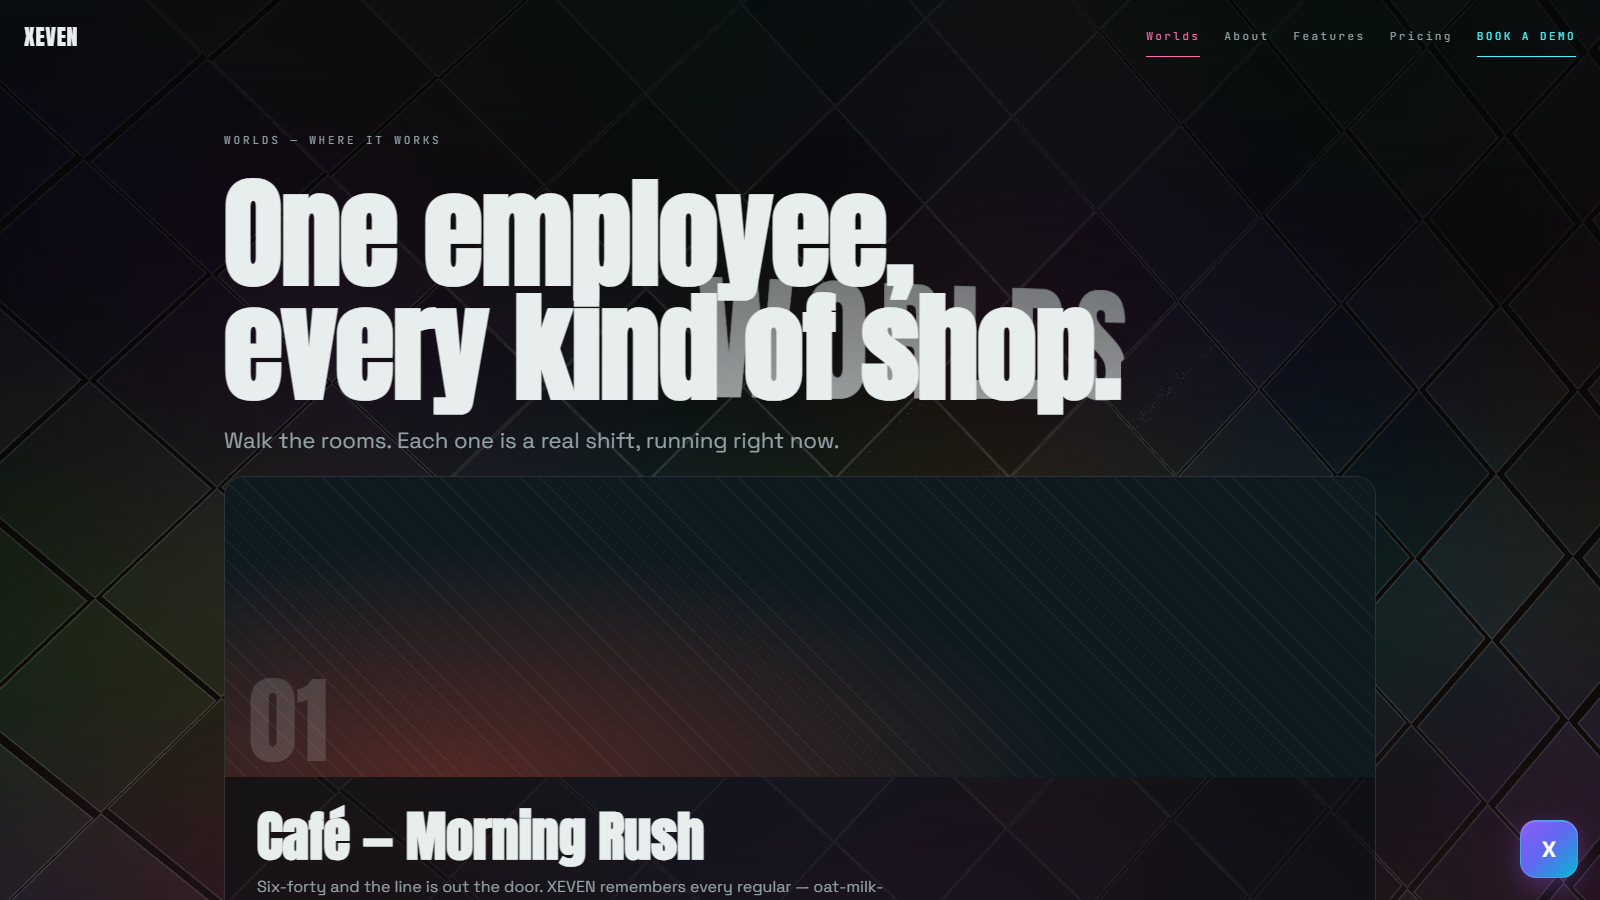
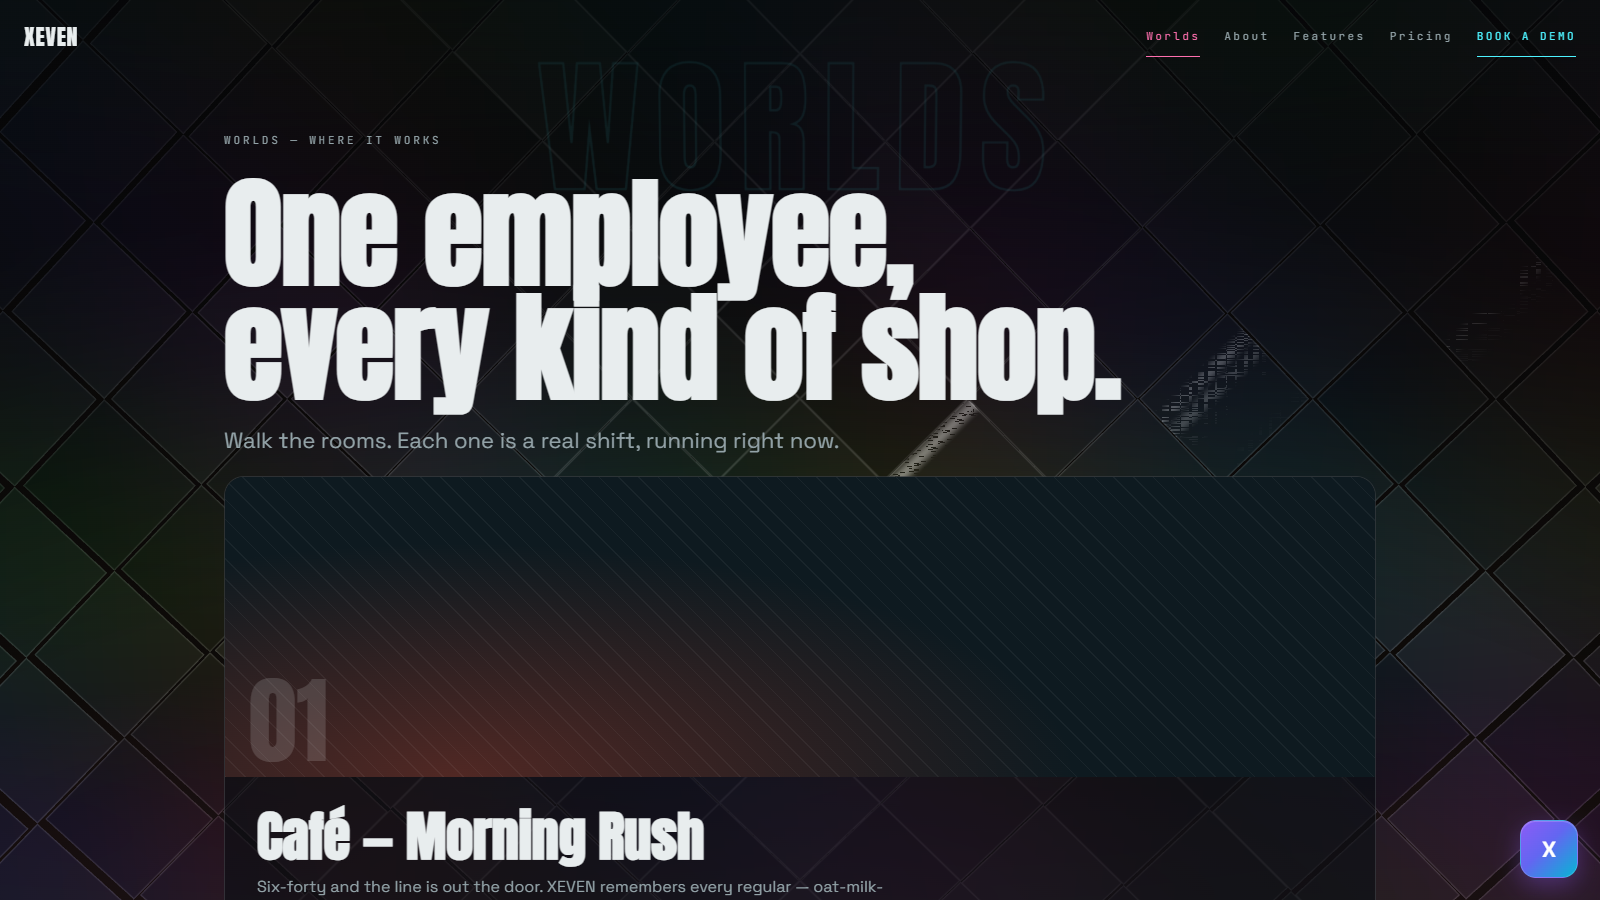
Giant gradient mark, living index, anatomy zones

diff --git a/src/components/ShiftWorld.tsx b/src/components/ShiftWorld.tsx
@@ -45,6 +45,7 @@ export default function ShiftWorld() {
   useEffect(() => {
     const canvas = ref.current
     const coarse = window.matchMedia('(pointer: coarse)').matches
+    const reduced = xs.reduced
     let renderer: THREE.WebGLRenderer
     try {
       renderer = new THREE.WebGLRenderer({ canvas, antialias: !coarse, alpha: false, powerPreference: 'low-power' })
@@ -206,34 +207,44 @@ export default function ShiftWorld() {
 
     // ---- hollow giant wordmark pinned to the top of the frame ----
     const labelCanvas = document.createElement('canvas')
-    labelCanvas.width = 1400
-    labelCanvas.height = 320
+    labelCanvas.width = 2048
+    labelCanvas.height = 512
     const labelTex = new THREE.CanvasTexture(labelCanvas)
     labelTex.colorSpace = THREE.SRGBColorSpace
     const labelMat = new THREE.MeshBasicMaterial({
       map: labelTex,
       transparent: true,
-      opacity: 0.85,
+      opacity: 0.9,
       depthWrite: false,
     })
-    const label = new THREE.Mesh(new THREE.PlaneGeometry(13.5, 3.1), labelMat)
-    label.position.set(0, 3.4, -2)
+    const label = new THREE.Mesh(new THREE.PlaneGeometry(20, 5), labelMat)
+    label.position.set(0, 1.2, -2)
     scene.add(label)
     const drawLabel = () => {
       const ctx = labelCanvas.getContext('2d')
       if (!ctx) return
-      ctx.clearRect(0, 0, 1400, 320)
-      ctx.strokeStyle = '#e8edee'
-      ctx.lineWidth = 3
-      ctx.font = '400 190px Anton, "Arial Narrow", sans-serif'
+      const hero = xs.route === 'enter'
+      ctx.clearRect(0, 0, 2048, 512)
+      ctx.font = `400 ${hero ? 330 : 190}px Anton, "Arial Narrow", sans-serif`
       ctx.textAlign = 'center'
       ctx.textBaseline = 'middle'
       try {
-        ;(ctx as unknown as { letterSpacing: string }).letterSpacing = '16px'
+        ;(ctx as unknown as { letterSpacing: string }).letterSpacing = '20px'
       } catch {
         /* older canvas: tracking unsupported, word still draws */
       }
-      ctx.strokeText(LABELS[xs.route], 700, 168)
+      if (hero) {
+        const g = ctx.createLinearGradient(320, 0, 1728, 0)
+        g.addColorStop(0, '#ff6fae')
+        g.addColorStop(0.55, '#f2a0c6')
+        g.addColorStop(1, '#4df3ff')
+        ctx.strokeStyle = g
+        ctx.lineWidth = 5
+      } else {
+        ctx.strokeStyle = '#4df3ff'
+        ctx.lineWidth = 3
+      }
+      ctx.strokeText(LABELS[xs.route], 1024, 268)
       labelTex.needsUpdate = true
     }
     drawLabel()
@@ -249,8 +260,8 @@ export default function ShiftWorld() {
       camera.lookAt(0, 0.4, -4)
       // subpages: wordmark hangs high and faint behind kickers, off headlines
       const hero = xs.route === 'enter'
-      label.position.y = hero ? 3.4 : 4.9
-      labelMat.opacity = hero ? 0.85 : 0.22
+      label.position.y = hero ? 1.2 : 4.6
+      labelMat.opacity = hero ? 0.9 : 0.22
       drawLabel()
       renderer.render(scene, camera)
     }
@@ -259,11 +270,19 @@ export default function ShiftWorld() {
       renderer.setSize(window.innerWidth, window.innerHeight, false)
       camera.aspect = window.innerWidth / window.innerHeight
       camera.updateProjectionMatrix()
-      renderStill()
+      dirty = true
     }
+    let raf = 0
+    let alive = true
+    let last = performance.now()
+    let clockT = Math.random() * 10
+    let dirty = false
     resize()
     window.addEventListener('resize', resize)
-    const onHash = () => renderStill()
+    const onHash = () => {
+      dirty = true
+      renderStill()
+    }
     window.addEventListener('hashchange', onHash)
     const onLost = (e: Event) => {
       e.preventDefault()
@@ -278,6 +297,36 @@ export default function ShiftWorld() {
 
     renderStill()
 
+    // index-only drift: ambient sway + scroll parallax, everywhere else sleeps
+    const frame = (now: number) => {
+      if (!alive) return
+      const dt = Math.min(0.05, (now - last) / 1000)
+      last = now
+      const live = xs.route === 'enter' && !reduced && !document.hidden
+      if (live) {
+        clockT += dt
+      }
+      if ((live || dirty) && !document.hidden) {
+        if (live) {
+          const sy = Math.min(window.scrollY, 2200)
+          camera.position.set(
+            CAM[0] + Math.sin(clockT * 0.21) * 0.5,
+            CAM[1] + Math.sin(clockT * 0.16 + 1) * 0.35 - sy * 0.0012,
+            CAM[2] + Math.cos(clockT * 0.13) * 0.4,
+          )
+          camera.lookAt(camera.position.x * 0.4, 0.4, -4)
+          label.position.y = 1.2 + Math.sin(clockT * 0.8) * 0.15
+          quadUniforms.uTime.value = clockT
+        }
+        renderer.render(scene, camera)
+        dirty = false
+      }
+      raf = requestAnimationFrame(frame)
+    }
+    if (!reduced) {
+      raf = requestAnimationFrame(frame)
+    }
+
     ;(window as unknown as { __shiftworld?: object }).__shiftworld = {
       get label() {
         return LABELS[xs.route]
@@ -286,6 +335,8 @@ export default function ShiftWorld() {
     }
 
     return () => {
+      alive = false
+      cancelAnimationFrame(raf)
       window.removeEventListener('resize', resize)
       window.removeEventListener('hashchange', onHash)
       canvas.removeEventListener('webglcontextlost', onLost, false)

diff --git a/src/pages/EnterStage.tsx b/src/pages/EnterStage.tsx
@@ -1,11 +1,71 @@
-/* ENTER — the field is the page. The XEVEN mark lives inside the WebGL
-   field itself; the DOM holds only chrome. This route is an empty viewport
-   over living diamonds. */
+import { useEffect } from 'react'
+import gsap from 'gsap'
+import { ScrollTrigger } from 'gsap/ScrollTrigger'
+import { TRIAL } from '../data/product'
+import { navigate, xs } from '../app/store'
+
+gsap.registerPlugin(ScrollTrigger)
+
+/* ENTER — the field is the page. Empty hero viewport over the living XEVEN
+   mark, then the field's own anatomy as specimen rows, then departure. */
+
+const ANATOMY = [
+  { n: '01', t: 'Hairlines', d: 'Every diamond outlined, never glowing. Boundaries, not decoration.' },
+  { n: '02', t: 'RGB drift', d: 'Channel weather phases across the grid — green to red to violet, always moving on index.' },
+  { n: '03', t: 'Cinema clock', d: 'Sparse panels light on a seven-second loop. The field keeps its own time.' },
+  { n: '04', t: 'Hollow mark', d: 'The word hangs in the field itself, outlined and weightless — never laid on top.' },
+]
 
 export default function EnterStage() {
+  useEffect(() => {
+    if (xs.reduced) return
+    const ctx = gsap.context(() => {
+      gsap.utils.toArray<HTMLElement>('.rv').forEach((el) => {
+        gsap.fromTo(
+          el,
+          { opacity: 0, y: 36 },
+          {
+            opacity: 1,
+            y: 0,
+            duration: 0.9,
+            ease: 'power3.out',
+            scrollTrigger: { trigger: el, start: 'top 88%', once: true },
+          },
+        )
+      })
+    })
+    return () => ctx.revert()
+  }, [])
+
   return (
     <div className="page">
-      <section className="st-hero" id="top" aria-label="XEVEN" />
+      <section className="st-hero hero-center" id="top" aria-label="XEVEN" />
+      <section className="zone" id="anatomy" aria-label="Field anatomy">
+        <p className="mono zone-kicker rv">ANATOMY OF THE FIELD</p>
+        <h2 className="zone-title rv">Built from four moves.</h2>
+        {ANATOMY.map((r) => (
+          <div className="t-row rv" key={r.n}>
+            <span className="t-n">{r.n}</span>
+            <div>
+              <h3>{r.t}</h3>
+              <p>{r.d}</p>
+            </div>
+          </div>
+        ))}
+      </section>
+      <section className="fin" id="finale" aria-label="Departure">
+        <p className="mono rv">{TRIAL.kicker}</p>
+        <h2 className="zone-title rv">{TRIAL.title}</h2>
+        <p className="page-lede rv">{TRIAL.lede}</p>
+        <div className="hero-cta-row rv" style={{ marginTop: 'var(--s24)' }}>
+          <button className="pill" data-cursor onClick={() => navigate('demo')}>
+            Book a demo →
+          </button>
+          <button className="pill pill-ghost" data-cursor onClick={() => navigate('worlds')}>
+            See the worlds
+          </button>
+        </div>
+      </section>
     </div>
   )
 }

diff --git a/src/components/RulerBar.tsx b/src/components/RulerBar.tsx
@@ -5,7 +5,11 @@ import type { Route } from '../app/store'
 /* RulerBar — index ONLY. Tracks the index sections (scroll-spy), jumps on
    tap. Renders nothing on any other route. */
 
-const STOPS = [{ id: 'top', short: '00', label: 'Top' }]
+const STOPS = [
+  { id: 'top', short: '00', label: 'Top' },
+  { id: 'anatomy', short: '01', label: 'Anatomy' },
+  { id: 'finale', short: '02', label: 'Departure' },
+]
 
 export default function RulerBar({ route }: { route: Route }) {
   const [active, setActive] = useState('top')

diff --git a/backlog.md b/backlog.md
@@ -76,6 +76,7 @@ Scope frozen: map-only phase found zero blank routes, zero dead links, zero cons
 - [x] First-field restore deployed + live-verified: b187b9e drops merged panels, RGB tint, orbitals, click ring (533 deletions); production probe flipped stale/restored, all routes green, 0 errors. Frame VISUALLY VERIFIED (rails + packets, native cursor).
 - [x] Orb theme (pink/cyan Living Shift): thinking-orb intro on index refresh only (jelly morph + revolve + stretch, corner-flood reveal, skippable, reduced-instant); swipe shifts replace the X veil (instant nav, no loaders off-index); right-aligned nav + logo-left; index-only section rail; sticky footer; floating gradient hero mark; playground + knot vignettes + R3F stack + XLoader deleted; full pink/cyan retoken (tokens, field, ring). Verified: build green, 1 warning, 6 routes + reduced pass, 0 errors. Frames VISUALLY VERIFIED (orb mid-stretch, revealed hero + panel field).
 - [x] Swarm orb (reference: particle-mass reel): intro rebuilt as 520-particle canvas swarm — magenta streaks, white-hot + cyan core glints, motion-trail rendering, reflection pool, inward condense into the corner-flood; field blobs de-glowed to dark occluding bodies (tint, zero emission); dead jelly CSS removed. Verified: build green, 1 warning, 0 page errors. Frames VISUALLY VERIFIED (condensing swarm + pool, revealed hero).
+- [x] Giant gradient mark + living index + anatomy zones: field XEVEN scaled to screen-fill with pink→cyan gradient stroke, subpage labels cyan; index-only ambient drift + scroll parallax, ticker sleeps off-index; index rebuilt around the field (anatomy specimens, finale CTA, 3-stop rail). Fixed en route: TDZ crash from declaration order (verify caught blank page). Verified: build green, 1 warning, all routes + reduced pass, 0 errors.
 - [x] Field diet + touch spatial + centered hero + replay chat: ShiftWorld stripped to diamond panels only (rails/packets/beacons/stars/solids/blobs deleted); touch-drag steers + stirs, tap presses; hero centered with floating mark, title zone below with rail stop; self-playing watch-only DemoChat with typing loop; veil dissolve slowed to 1400ms with lingering scatter. Verified: build green, 1 warning, all routes + mobile tap + reduced pass, 0 errors. Frames VISUALLY VERIFIED (chat console, mobile hero).
 - [x] Living labels + frozen routes: canvas-texture wordmarks float in the field per route (XEVEN/WORLDS/…), breathing on index, dimmed + sunk on subpages so headlines stay clean; ticker sleeps off-index (one frame on arrival/resize); diamonds tile edge-to-edge; pink active nav (demo CTA + logo exempt). Verified: build green, 1 warning, labels correct per route, 0 errors.
 - [x] Frozen wall + hollow labels: single straight camera everywhere, ticker deleted (one static render on mount/resize/route), pointer/touch motion gone; labels redrawn as giant hollow outlines pinned high (full on index, faint on subpages). Verified: build green, 1 warning, enter + demo frames, 0 errors.
